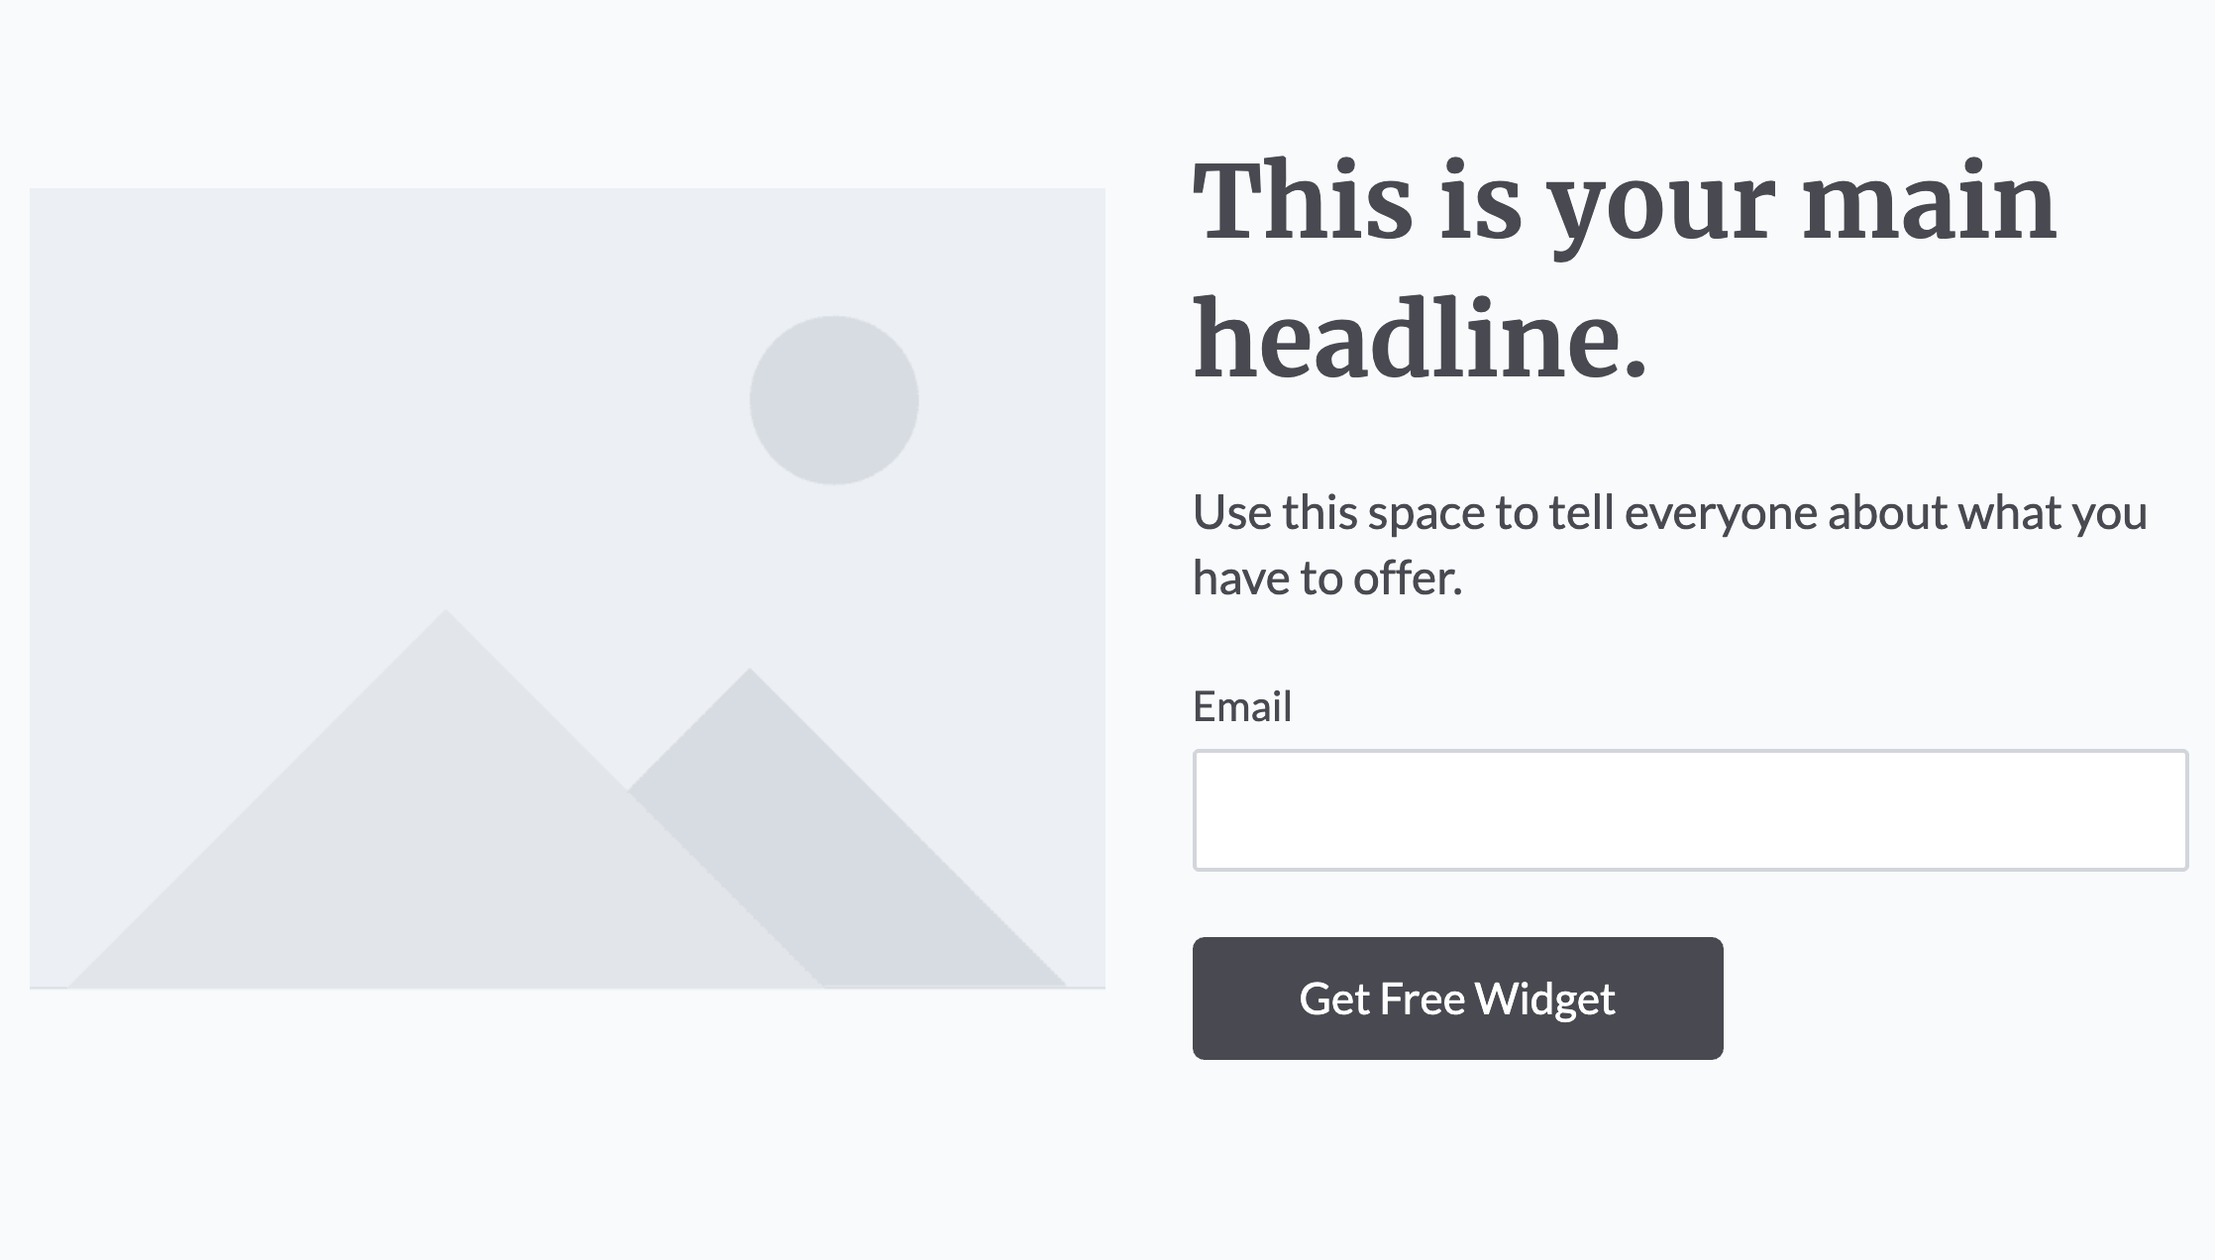
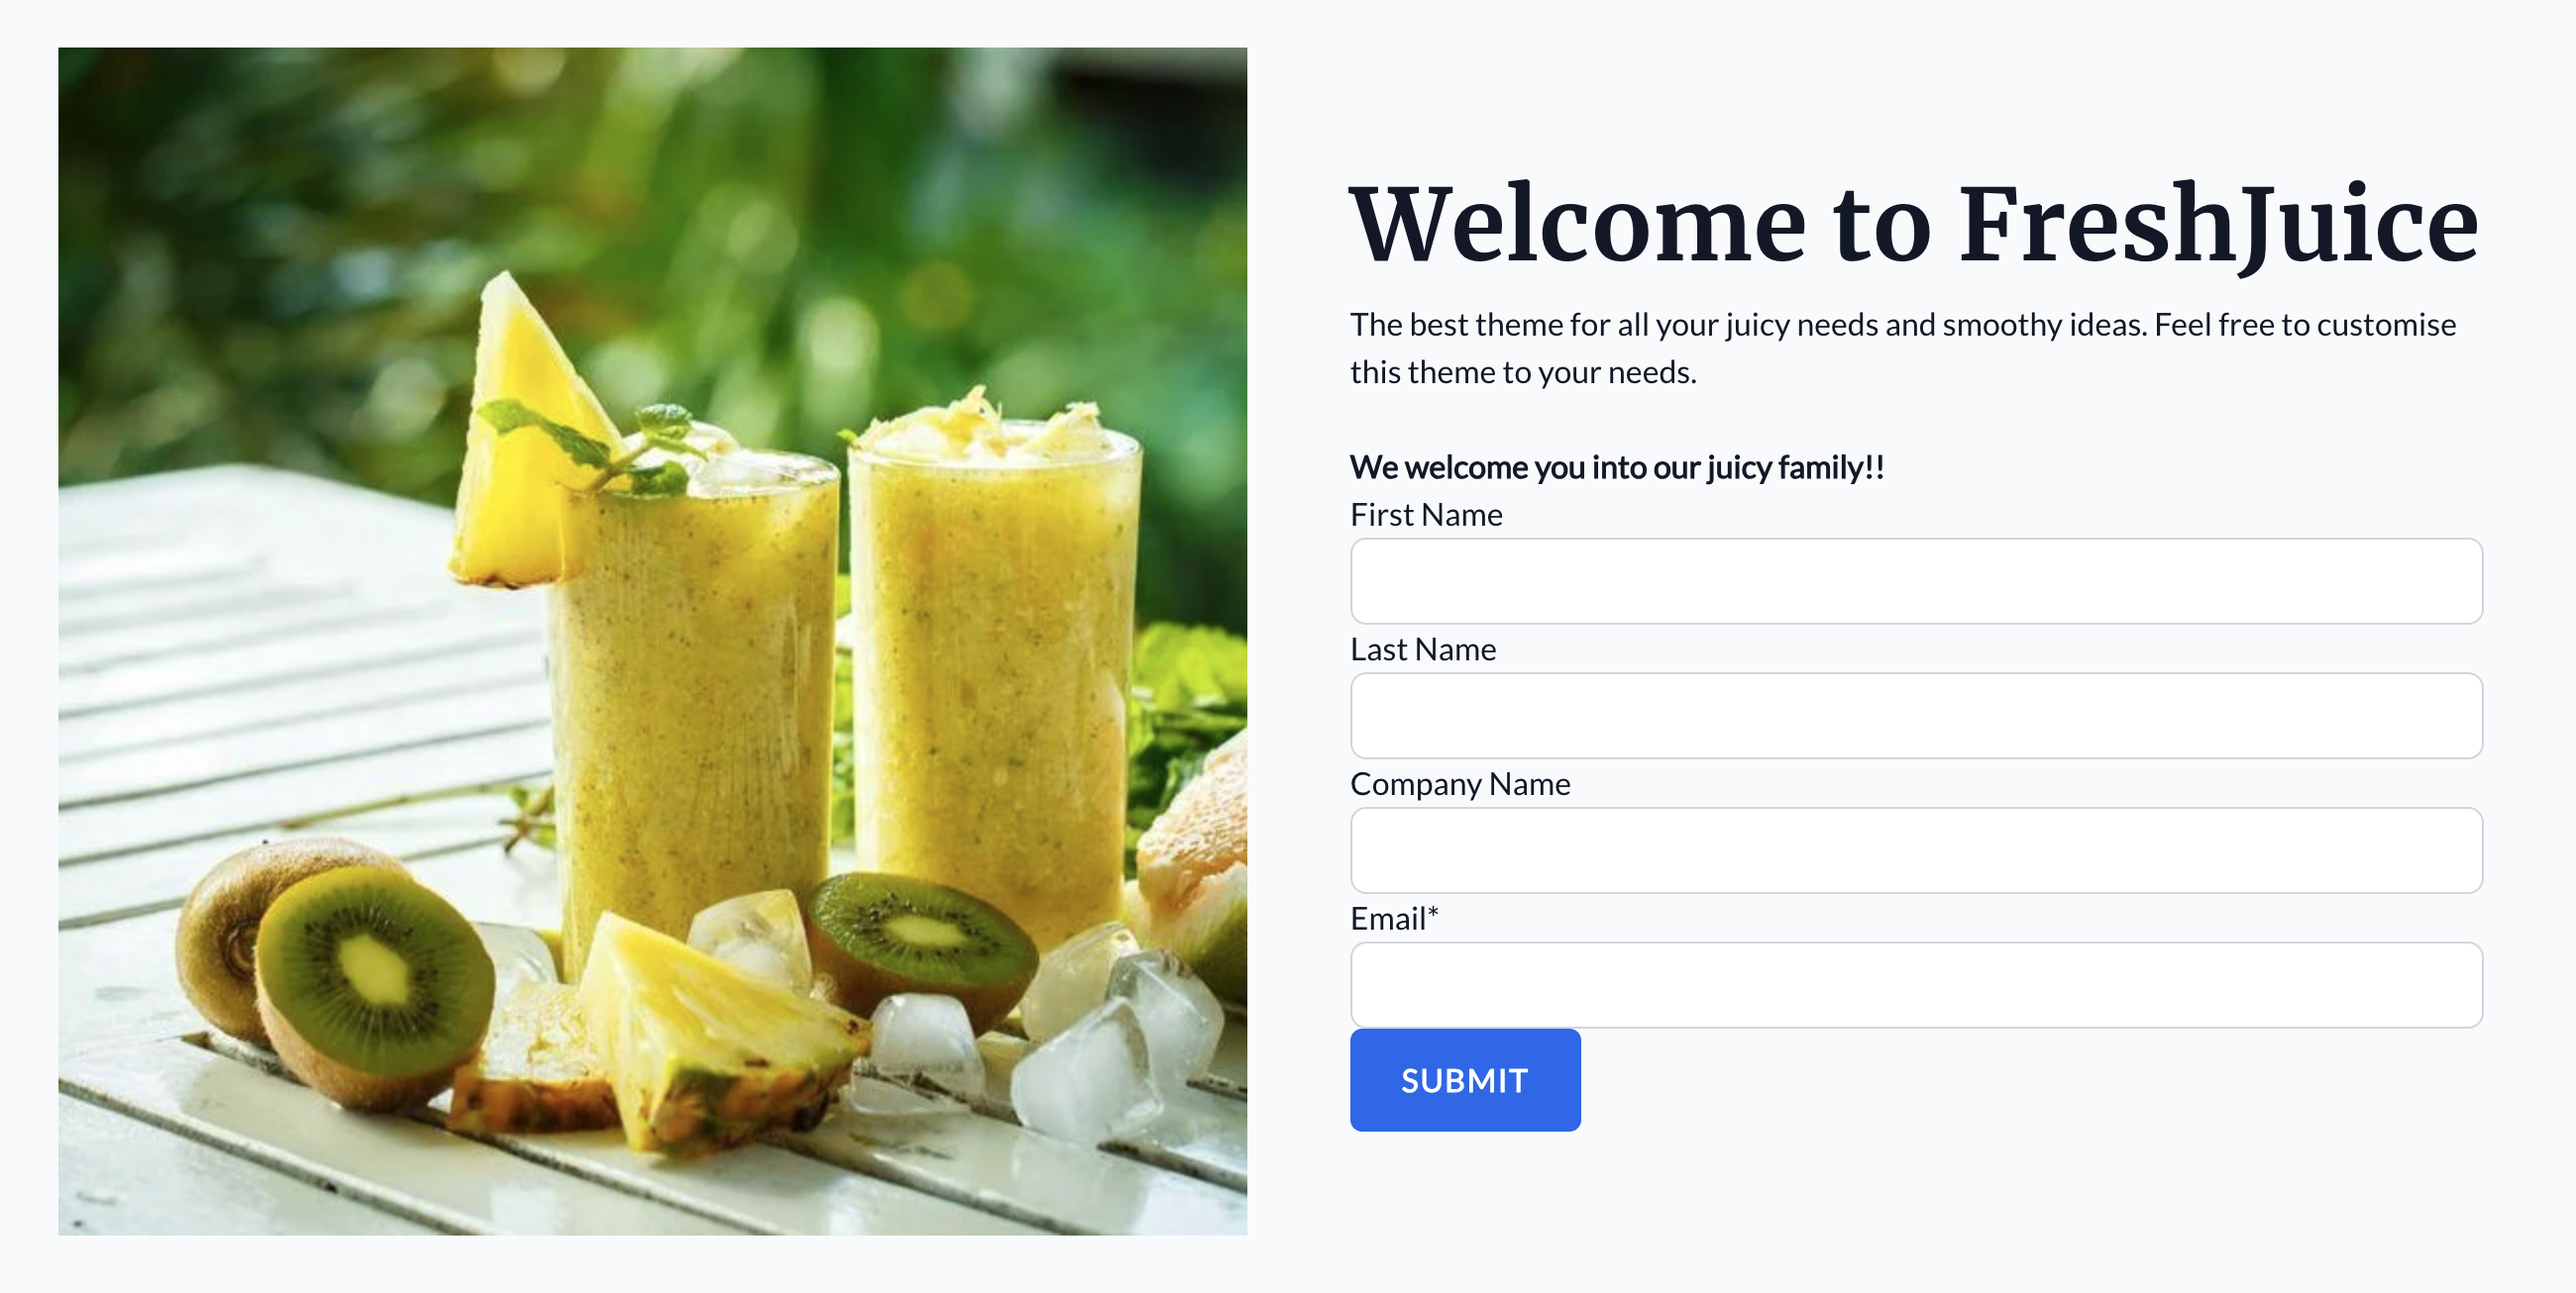
update landing-page template and the sections used in it
update screenshot images

optimise sections and templates. Remove images from theme and use url instead

diff --git a/theme/sections/multi-column-content.html b/theme/sections/multi-column-content.html
@@ -17,12 +17,12 @@
       {% dnd_module
         path="@hubspot/linked_image",
         img={
-          "alt": context.column_one_image_alt or "Stock placeholder image with grayscale geometrical mountain landscape",
+          "alt": context.column_one_image_alt or "Assortment of fruits with two orange cocktails in the back.",
           "loading": context.column_one_image_loading or "lazy",
-          "max_height": context.column_one_image_height or 451,
-          "max_width": context.column_one_image_width or 605,
+          "max_height": context.column_one_image_height or 600,
+          "max_width": context.column_one_image_width or 600,
           "size_type": "auto_custom_max",
-          "src": context.column_one_image or get_asset_url("../images/grayscale-mountain.png")
+          "src": context.column_one_image or "https://resources.freshjuice.dev/images/600/600/mango-juice-and-mango-on-wood-table.jpg"
         }
       %}
       {% end_dnd_module %}
@@ -30,7 +30,7 @@
     {% dnd_row %}
       {% dnd_module
         path="@hubspot/rich_text",
-        html={{ context.column_one_content or "<h3>Feature one</h3><p>Use text and images to tell your company’s story. Explain what makes your product or service extraordinary.</p>" }}
+        html={{ context.column_one_content or "<h3>Our Origin</h3><p>There are many themes that do not use standard practices. They are unethical and cost lots of money. Our goal is to be the better alternative.</p>" }}
       %}
       {% end_dnd_module %}
     {% end_dnd_row %}
@@ -43,12 +43,12 @@
       {% dnd_module
         path="@hubspot/linked_image",
         img={
-          "alt": context.column_two_image_alt or "Stock placeholder image with grayscale geometrical mountain landscape",
+          "alt": context.column_two_image_alt or "Natural Ice Cream made out of Mint tea leaves and kiwi.",
           "loading": context.column_two_image_loading or "lazy",
-          "max_height": context.column_two_image_height or 451,
-          "max_width": context.column_two_image_width or 605,
+          "max_height": context.column_two_image_height or 600,
+          "max_width": context.column_two_image_width or 600,
           "size_type": "auto_custom_max",
-          "src": context.column_two_image or get_asset_url("../images/grayscale-mountain.png")
+          "src": context.column_two_image or "https://resources.freshjuice.dev/images/600/600/matcha-green-tea-chia-seed-pudding.jpg"
         }
       %}
       {% end_dnd_module %}
@@ -56,7 +56,7 @@
     {% dnd_row %}
       {% dnd_module
         path="@hubspot/rich_text",
-        html={{ context.column_two_content or "<h3>Feature two</h3><p>Use text and images to tell your company’s story. Explain what makes your product or service extraordinary.</p>" }}
+        html={{ context.column_two_content or "<h3>Our Mission</h3><p>To make a simple theme that will fit everyone's needs while being free, easy to modify and free of repetitive code.</p>" }}
       %}
       {% end_dnd_module %}
     {% end_dnd_row %}
@@ -69,12 +69,12 @@
       {% dnd_module
         path="@hubspot/linked_image",
         img={
-          "alt": context.column_three_image_alt or "Stock placeholder image with grayscale geometrical mountain landscape",
+          "alt": context.column_three_image_alt or "Three Ice Smoothie Machines",
           "loading": context.column_three_image_loading or "lazy",
-          "max_height": context.column_three_image_height or 451,
-          "max_width": context.column_three_image_width or 605,
+          "max_height": context.column_three_image_height or 600,
+          "max_width": context.column_three_image_width or 600,
           "size_type": "auto_custom_max",
-          "src": context.column_three_image or get_asset_url("../images/grayscale-mountain.png")
+          "src": context.column_three_image or "https://resources.freshjuice.dev/images/600/600/three-flavors-of-fresh-grenadine-for-sale-in-summe.jpg"
         }
       %}
       {% end_dnd_module %}
@@ -82,7 +82,7 @@
     {% dnd_row %}
       {% dnd_module
         path="@hubspot/rich_text",
-        html={{ context.column_three_content or "<h3>Feature three</h3><p>Use text and images to tell your company’s story. Explain what makes your product or service extraordinary.</p>" }}
+        html={{ context.column_three_content or "<h3>Free for all</h3><p>The main point of the theme is to be simple and free as well as fit to use by anyone. We will not diverge from this goal.</p>" }}
       %}
       {% end_dnd_module %}
     {% end_dnd_row %}

diff --git a/theme/sections/hero-banner.html b/theme/sections/hero-banner.html
@@ -12,12 +12,12 @@
   {% dnd_module
     path="@hubspot/linked_image",
     img={
-      "alt": context.image_alt or "Stock placeholder image with grayscale geometrical mountain landscape",
+      "alt": context.image_alt or "Hero Image of two yellow cocktails made out of pineapple and kiwi.",
       "loading": context.image_loading or "disabled",
-      "max_height": context.image_height or 451,
-      "max_width": context.image_width or 605,
+      "max_height": context.image_height or 600,
+      "max_width": context.image_width or 600,
       "size_type": "auto_custom_max",
-      "src": context.image or get_asset_url("../images/grayscale-mountain.png")
+      "src": context.image or "https://resources.freshjuice.dev/images/600/600/smoothies-of-kiwi-and-pineapple-on-the-table.jpg"
     },
     offset=0,
     width=6
@@ -30,7 +30,7 @@
     {% dnd_row %}
       {% dnd_module
         path="@hubspot/rich_text"
-        html={{ context.content or "<h1>This is your main headline.</h1><p>Use this space to tell everyone about what you have to offer.</p>" }}
+        html={{ context.content or "<h1>Welcome to FreshJuice</h1><p>The best theme for all your juicy needs and smoothy ideas. Feel free to customise this theme to your needs.</p><br><p><strong>We welcome you into our juicy family!!</strong></p>" }}
       %}
       {% end_dnd_module %}
     {% end_dnd_row %}

diff --git a/theme/templates/home.html b/theme/templates/home.html
@@ -21,36 +21,11 @@
 
   {# Two column image right #}
 
-  {% include_dnd_partial path="../sections/multi-row-content.html" %}
+  {% include_dnd_partial path="../sections/row-content-img-right.html" %}
 
   {# Two column image left #}
 
-  {% dnd_section
-    background_color="#f8fafc",
-    vertical_alignment="MIDDLE"
-  %}
-    {% dnd_module
-      path="@hubspot/linked_image",
-      img={
-        "alt": "Stock placeholder image with grayscale geometrical mountain landscape",
-        "loading": "lazy",
-        "max_height": 451,
-        "max_width": 605,
-        "size_type": "auto_custom_max",
-        "src": get_asset_url("../images/grayscale-mountain.png")
-      },
-      offset=0,
-      width=6
-    %}
-    {% end_dnd_module %}
-    {% dnd_module
-      path="@hubspot/rich_text",
-      html="<h2>Provide more details here.</h2><p>Use text and images to tell your company’s story. Explain what makes your product or service extraordinary.</p>"
-      offset=6,
-      width=6
-    %}
-    {% end_dnd_module %}
-  {% end_dnd_section %}
+  {% include_dnd_partial path="../sections/row-content-img-left.html" %}
 
   {# Call to action #}
 

diff --git a/theme/sections/row-content-img-right.html b/theme/sections/row-content-img-right.html
@@ -1,0 +1,32 @@
+<!--
+  templateType: section
+  label: Row Content Image Right
+  isAvailableForNewContent: true
+  screenshotPath: ../images/section-previews/row-content-img-right.png
+  description: "Section separated in two columns. Left column has text and right column has an image."
+-->
+{% dnd_section
+  vertical_alignment="MIDDLE"
+%}
+  {% dnd_module
+    path="@hubspot/rich_text",
+    html={{ context.content or "<h2>All Natural</h2><p>We use all natural products from farms and producers locally near us and we do not process the foods.</p>" }}
+    offset=0,
+    width=6
+  %}
+
+  {% end_dnd_module %}
+  {% dnd_module path="@hubspot/linked_image",
+    img={
+      "alt": context.image_alt or "Image with fruits on a plate",
+      "loading": context.image_loading or "disabled",
+      "max_height": context.image_height or 450,
+      "max_width": context.image_width or 600,
+      "size_type": "auto_custom_max",
+      "src": context.image or "https://resources.freshjuice.dev/images/600/exotic-fruits.jpg"
+    },
+    offset=6,
+    width=6
+  %}
+  {% end_dnd_module %}
+{% end_dnd_section %}

diff --git a/theme/sections/row-content-img-left.html b/theme/sections/row-content-img-left.html
@@ -1,0 +1,34 @@
+<!--
+  templateType: section
+  label: Row Content Image Left
+  isAvailableForNewContent: true
+  screenshotPath: ../images/section-previews/row-content-img-left.png
+  description: "Section separated in two columns. Left column has an image and right column has text."
+-->
+{% dnd_section
+  background_color="#f8fafc",
+  vertical_alignment="MIDDLE"
+%}
+  {% dnd_module
+    path="@hubspot/linked_image",
+    img={
+    "alt": "Bowl with vegetables and fruits.",
+    "loading": "lazy",
+    "max_height": 450,
+    "max_width": 600,
+    "size_type": "auto_custom_max",
+    "src": context.image or "https://resources.freshjuice.dev/images/600/vegan-bowl-with-vegetables-in-bowl.jpg"
+
+  },
+    offset=0,
+    width=6
+  %}
+  {% end_dnd_module %}
+  {% dnd_module
+    path="@hubspot/rich_text",
+    html="<h2>We are the Healthiest</h2><p>Our Theme and smoothies are the healthiest ones, we strive to make them as healthy as possible. The healthier the better.</p>"
+    offset=6,
+    width=6
+  %}
+  {% end_dnd_module %}
+{% end_dnd_section %}

diff --git a/theme/sections/call-to-action.html b/theme/sections/call-to-action.html
@@ -47,14 +47,14 @@
     %}
       {% dnd_module
         path="@hubspot/rich_text",
-        html={{ context.content or '<div style="text-align: center"><h2>Provide an excerpt here</h2><p>Use text and images to tell your company’s story. Explain what makes your product or service extraordinary.</p></div>' }}
+        html={{ context.content or '<div style="text-align: center"><h2>Subscribe for Weekly Theme News</h2><p>Subscribe to our weekly emails, so you will be up to date with our theme updates.</p></div>' }}
       %}
       {% end_dnd_module %}
     {% end_dnd_row %}
     {% dnd_row %}
       {% dnd_module
         path="../modules/button",
-        button_text={{ context.button_text or "Get started" }},
+        button_text={{ context.button_text or "Subscribe" }},
         styles={
           "alignment": {
             "alignment": {

diff --git a/theme/templates/about.html b/theme/templates/about.html
@@ -25,8 +25,8 @@
         "max_height": 450,
         "max_width": 800,
         "size_type": "auto_custom_max",
-        "src": get_asset_url("../images/watermelon-juice-sharing.jpg")
-      },
+        "src": context.image or "https://resources.freshjuice.dev/images/800/pour-watermelon-juice.jpg"
+    },
       offset=0,
       width=6
     %}

diff --git a/theme/templates/landing-page.html b/theme/templates/landing-page.html
@@ -20,9 +20,6 @@
 
   {% include_dnd_partial
     path="../sections/hero-banner.html"
-    context={
-      "content": "<h1>Download your free eBook</h1><p>Use this space to tell everyone what your eBook is all about.</p>"
-    }
   %}
 
   {# Three column image with text #}

diff --git a/theme/templates/qa-test.html b/theme/templates/qa-test.html
@@ -618,7 +618,7 @@
     {% end_dnd_column %}
   {% end_dnd_section %}
 
-  {% include_dnd_partial path="../sections/multi-row-content.html" %}
+  {% include_dnd_partial path="../sections/row-content-img-right.html" %}
 
   {# Pricing #}
 
